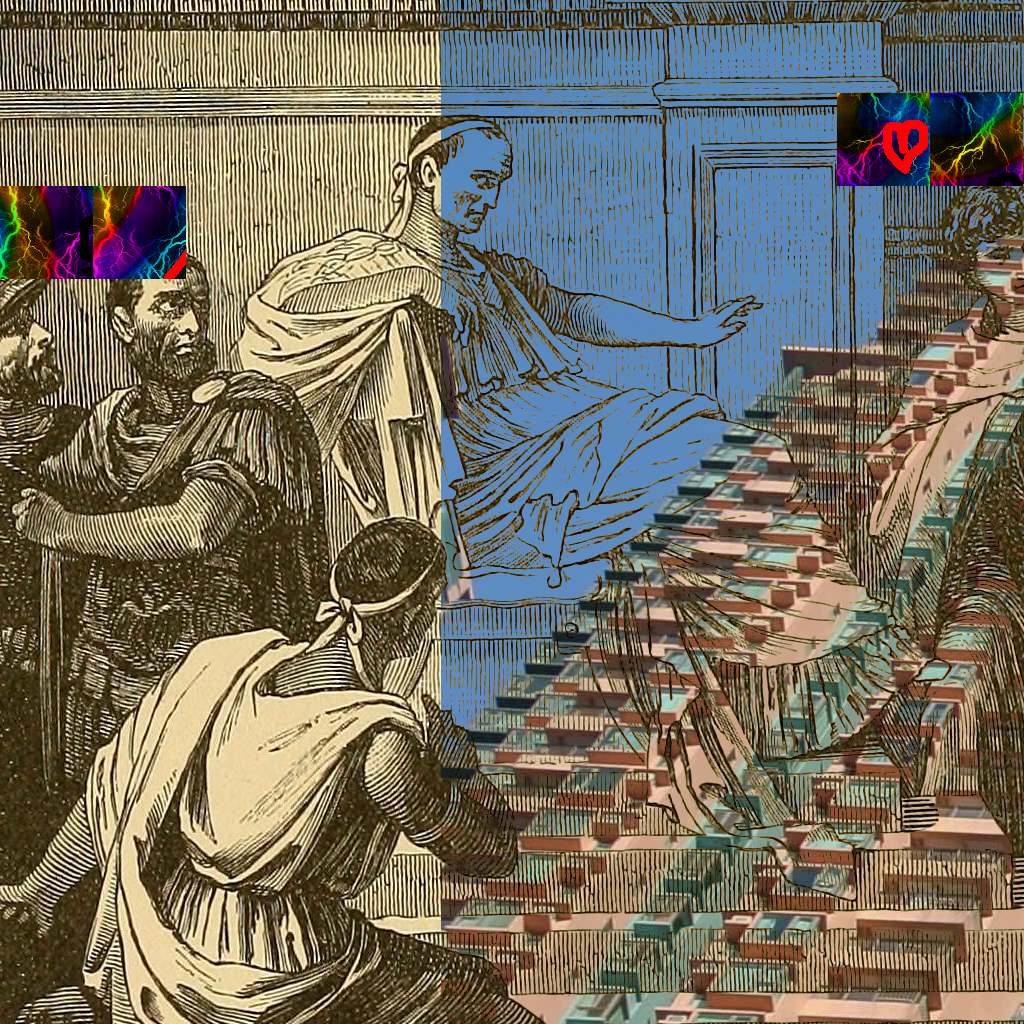
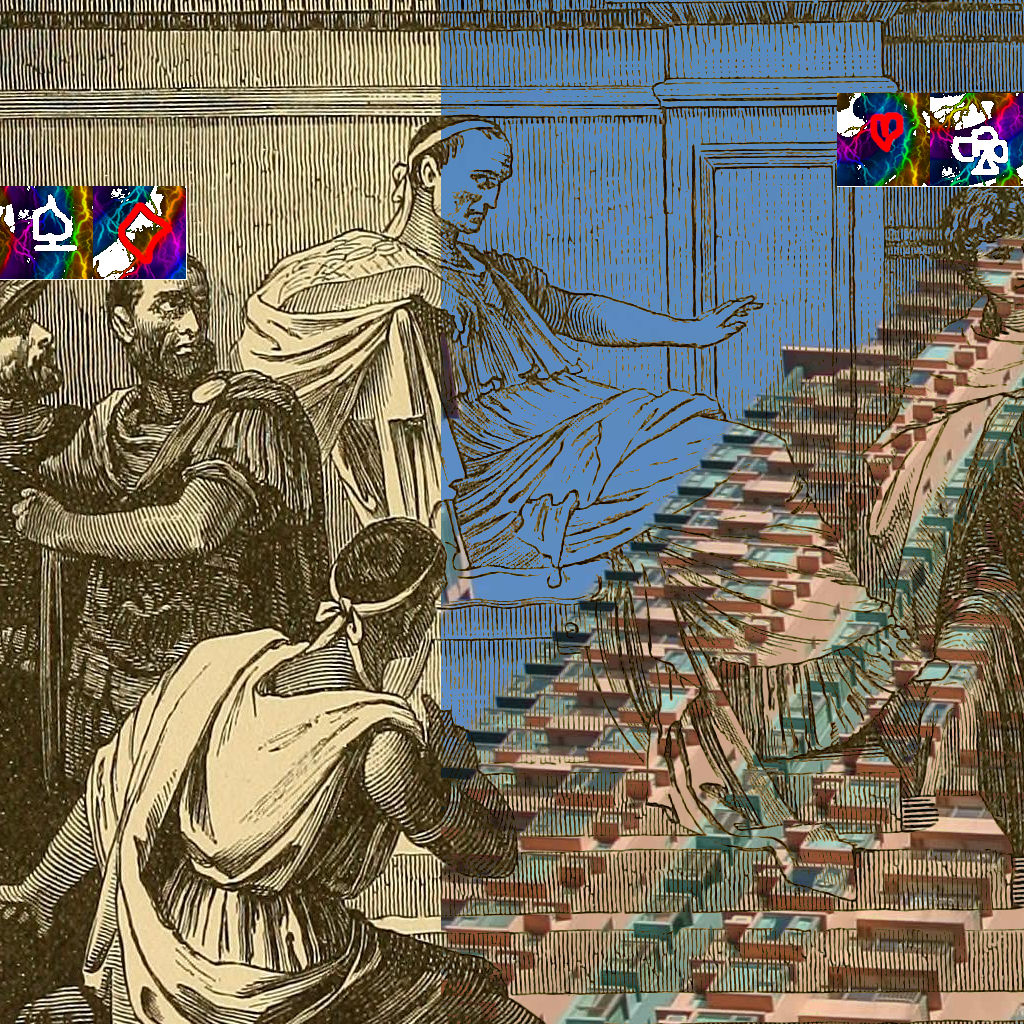
Add Atlas Transparency

Changed region(s): [[0.0, 0.1562, 0.1875, 0.2812], [0.8125, 0.0938, 1.0, 0.1875]]

diff --git a/art_src/atlas.cpp b/art_src/atlas.cpp
@@ -20,10 +20,14 @@ int main( int /*argc*/, char ** argv)
   try {
     // Read in the background, so that missing sprites have a unique error texture
     atlas.read("err_tex.png");
-    atlas.crop( Geometry( ATLAS_SIZE, ATLAS_SIZE, 0, 0 ) );
+atlas.crop( Geometry( ATLAS_SIZE, ATLAS_SIZE, 0, 0 ) );
     // s & l : small and large
     int animal = 0;
     int const ATLAS_SPRITEW = ATLAS_SIZE / SPRITE_SIZE;
+
+    // For drawing holes
+//    atlas.fillColor("rgba(0,0,0,100)");
+    atlas.fillColor("magenta");
     for(int l = 0; l < Basepiece::LEN; l++){
       for(int s = 0; s <= l; s++){
         int t_animal = combine_basepieces((Basepiece)s, (Basepiece)l);
@@ -41,7 +45,10 @@ int main( int /*argc*/, char ** argv)
             for(int frame=0;frame<2;frame++){
               Image sprite = in;
               sprite.crop( Geometry( SPRITE_SIZE, SPRITE_SIZE, SPRITE_SIZE*face, SPRITE_SIZE*frame ) );
-              atlas.composite( sprite, (off % ATLAS_SPRITEW) * SPRITE_SIZE, (off / ATLAS_SPRITEW) * SPRITE_SIZE, OverCompositeOp );
+              int x = (off % ATLAS_SPRITEW) * SPRITE_SIZE;
+              int y = (off / ATLAS_SPRITEW) * SPRITE_SIZE;
+              atlas.draw( DrawableRectangle(x, y, x+SPRITE_SIZE, y+SPRITE_SIZE) );
+              atlas.composite( sprite, x, y, OverCompositeOp );
               off++;
             }
           }
@@ -52,6 +59,7 @@ int main( int /*argc*/, char ** argv)
         animal++;
       }
     }
+    atlas.transparent("magenta");
     atlas.write("../assets/atlas.png");
   }catch(Exception &error){
     cerr << "Caught fatal exception: " << error.what() << endl;

diff --git a/Piece.cpp b/Piece.cpp
@@ -79,7 +79,7 @@ Piece::~Piece() {
 }
 
 void Piece::consumePiece(Piece other) {
-  consumeMoveset(other.moveset, other.player == player);
+  consumeMoveset(other.moveset, other.player != player);
   consumeBasepiece(other.basepiece);
 }
 
